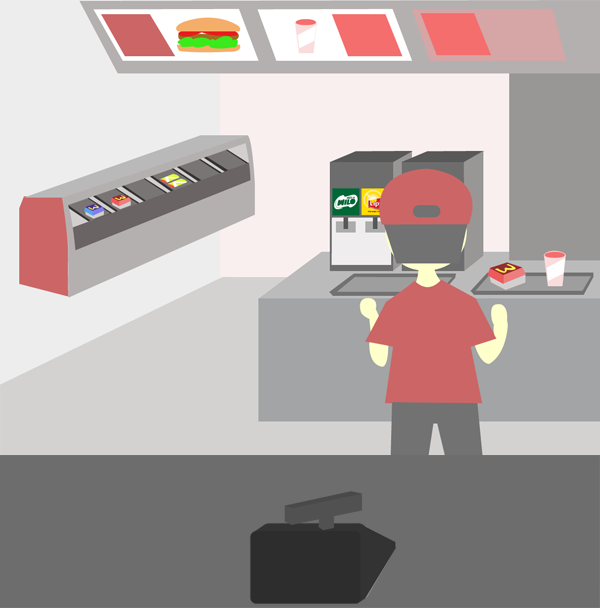
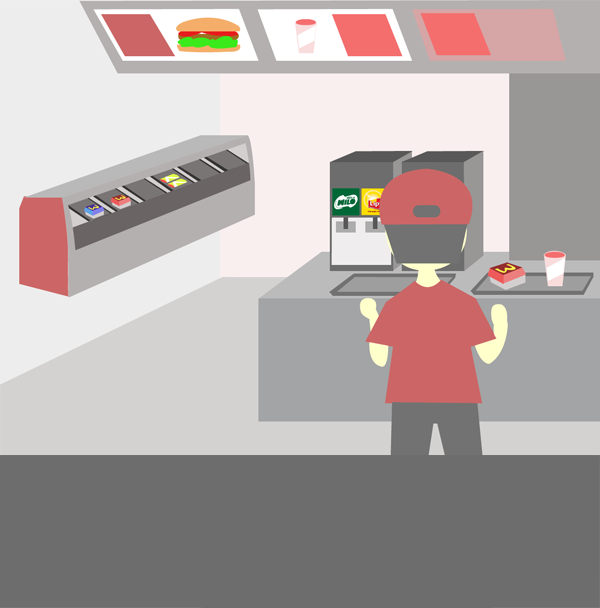
change sprite

Changed region(s): [[0.39, 0.8125, 0.66, 1.0]]

diff --git a/js/main.js b/js/main.js
@@ -395,18 +395,20 @@
     // * * * * * * * * * * * * * * * * * * * * * * * * * * *
     function fadeEnvironmentDisplay(workOrStudy) {
         var image = "";
+        var sprite = "";
         if ((workOrStudy == "work") && (mode == "studying")) {
             image = "img/envpoor2.png";
+            sprite = "img/poor2.png";
         } else if ((workOrStudy == "study") && (mode == "working")) {
             image = "img/envpoor.png";
+            sprite = "img/poor.png";
         }
 
-        if (image == "") {
+        if (image == "" || sprite == "") {
             // do nothing
         } else {
-            //$('.poor').fadeTo('fast', 0.3, function () {
-                $('.poor').css('background-image', 'url(' + image + ')');
-           // }).fadeTo('fast', 0.3);
+            $('.poor').css('background-image', 'url(' + image + ')');
+            $('.poor').find('.sprite').html('<img src="' + sprite + '">');
         }
     }
 
